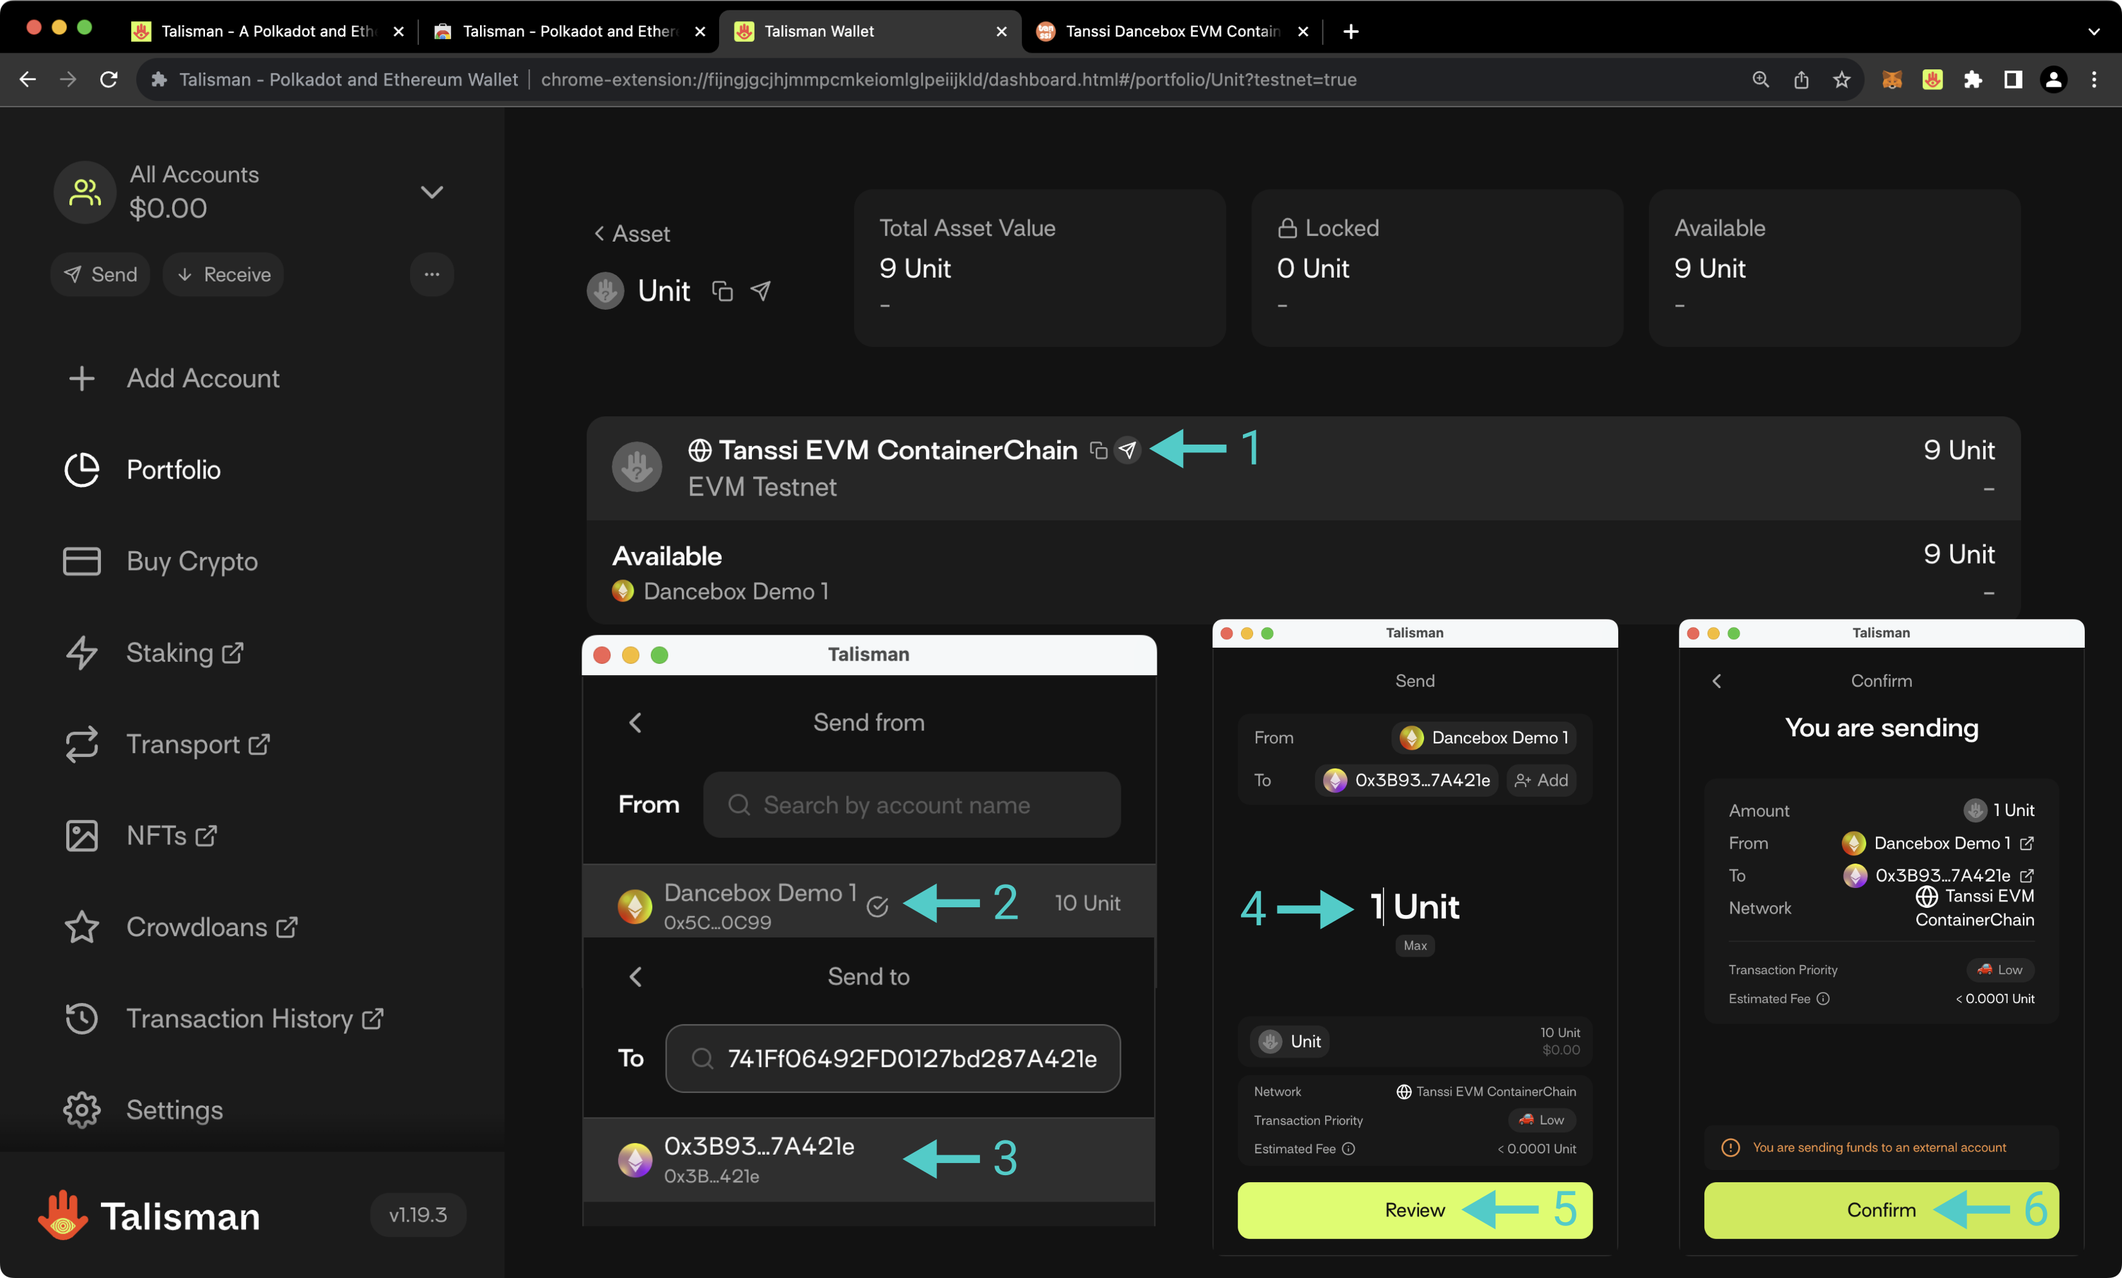
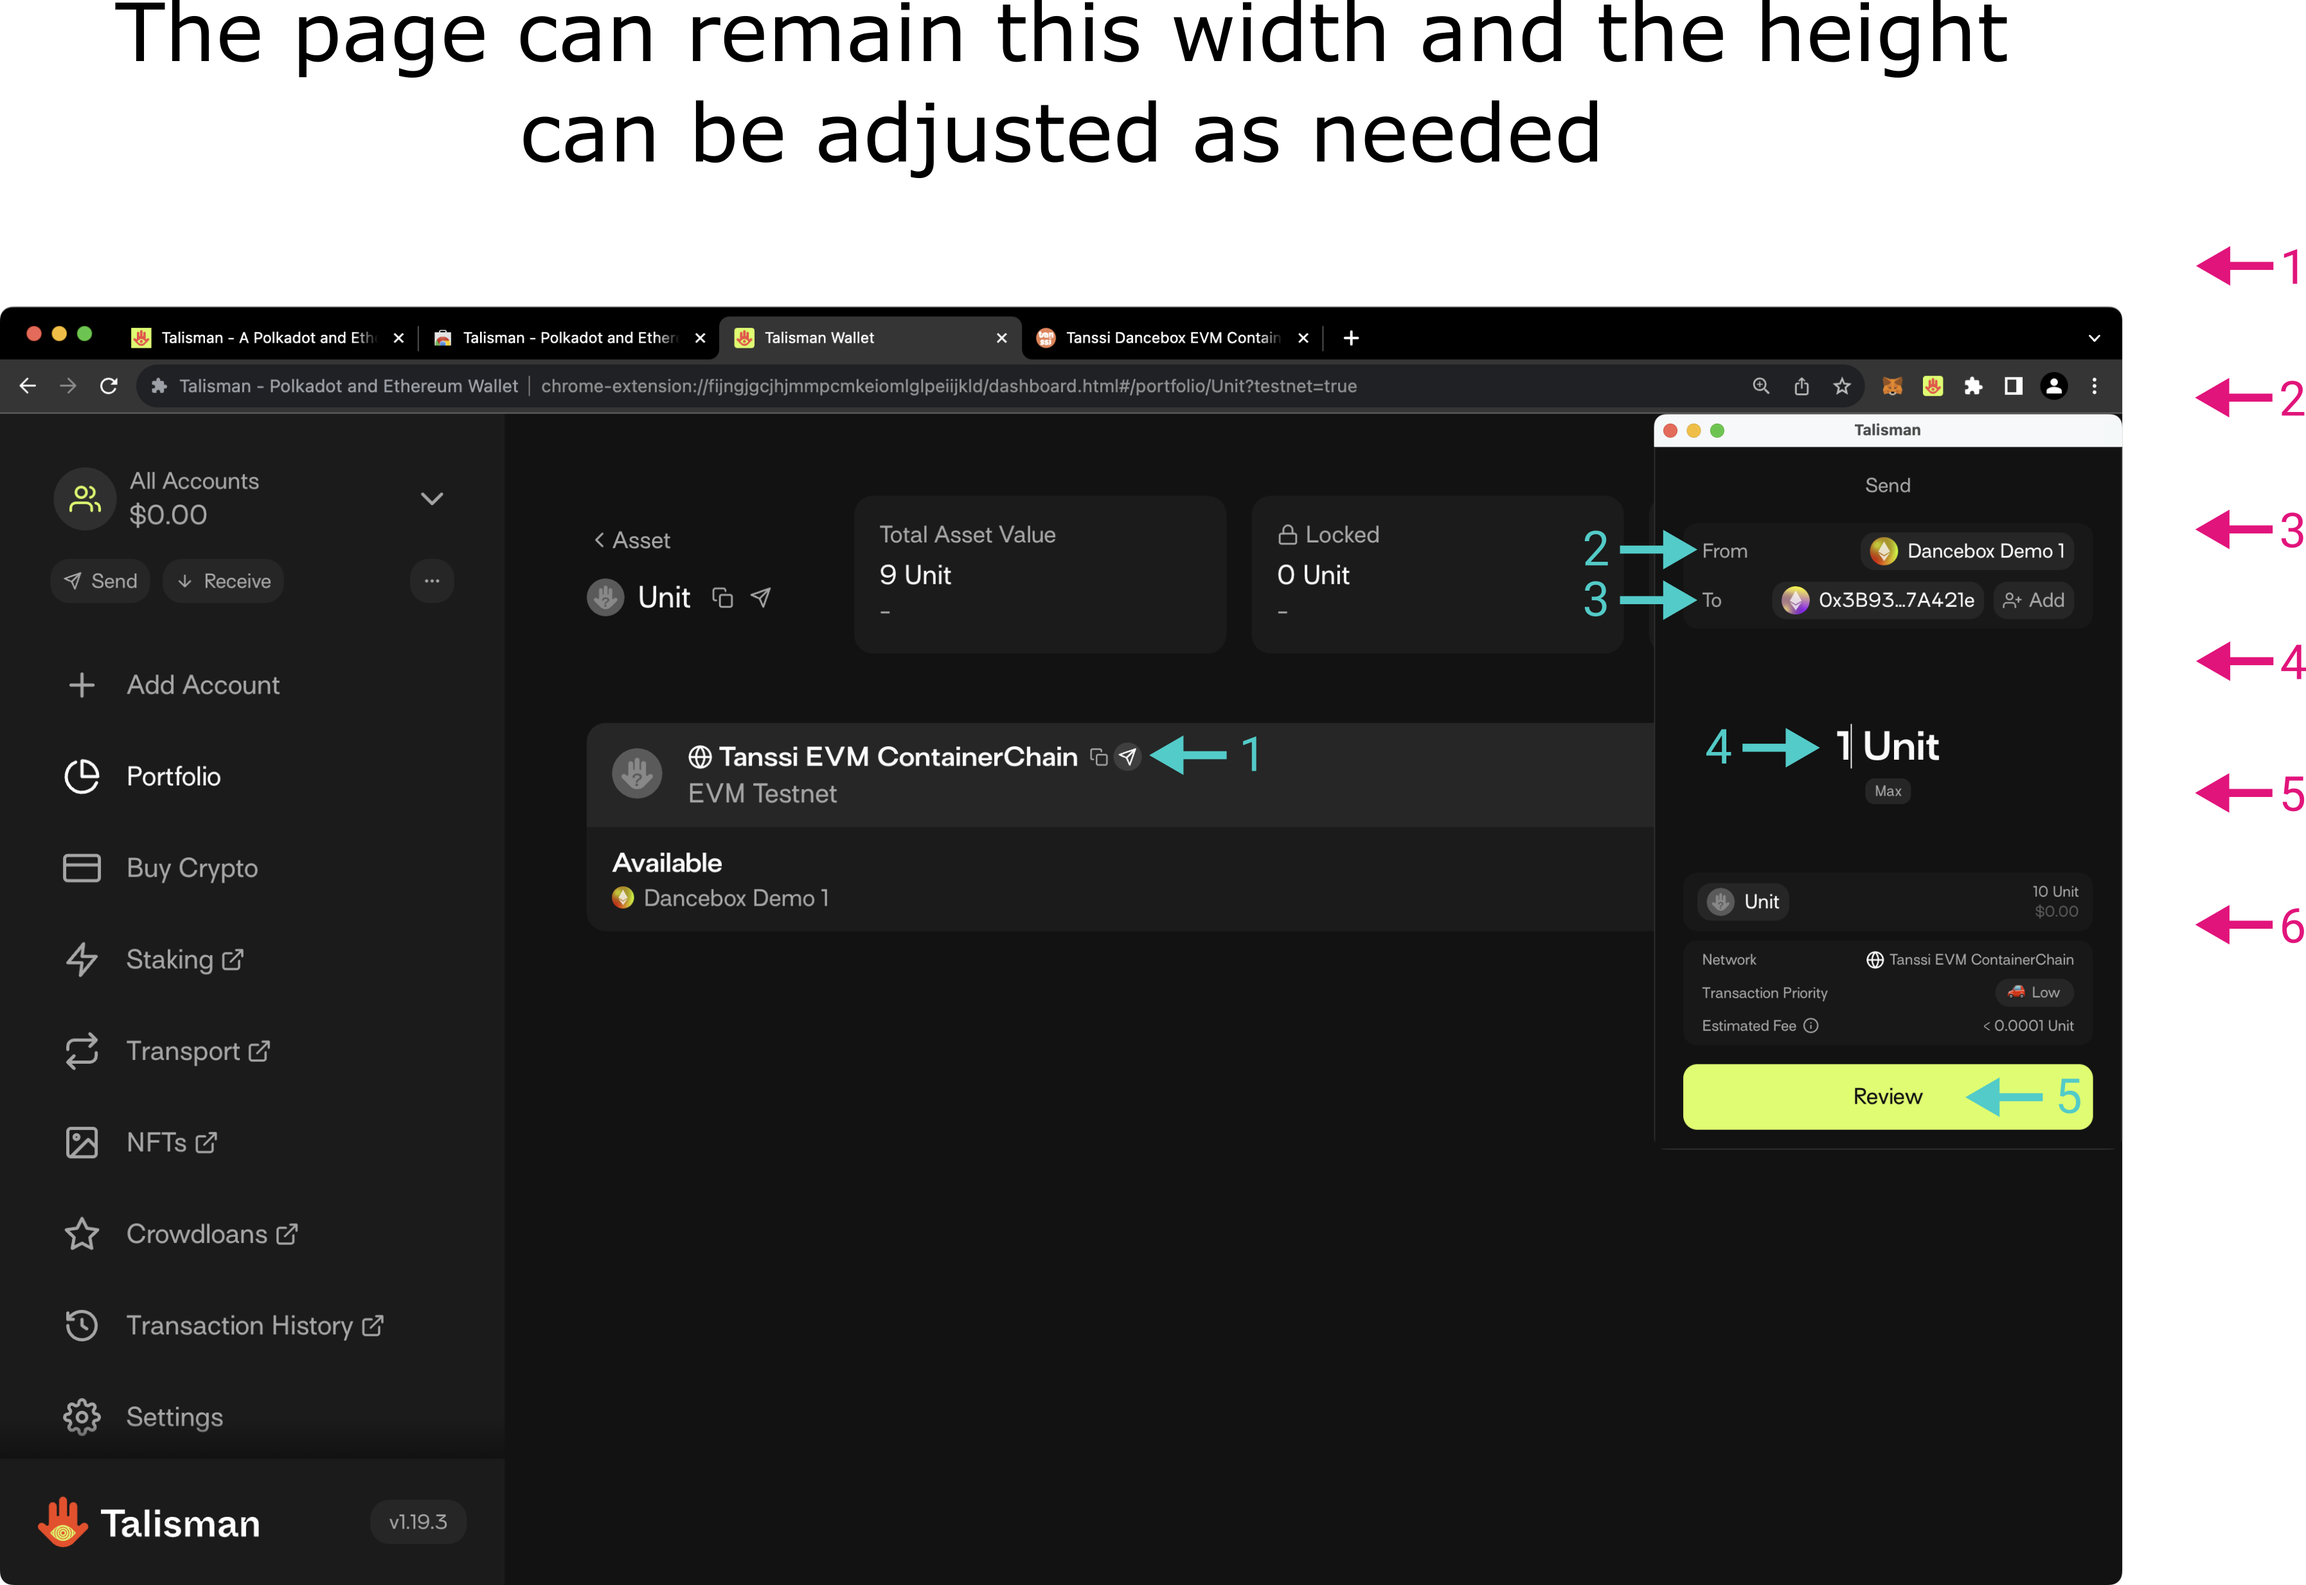
update talisman image 8

diff --git a/builders/interact/ethereum-api/wallets/talisman.md b/builders/interact/ethereum-api/wallets/talisman.md
@@ -67,8 +67,7 @@ To transfer the native token of your ContainerChain, take the following steps:
 2. Click the desired **Send from** account
 3. Enter the destination address
 4. Enter the amount of tokens to send
-5. Press **Review** and look over the transaction details
-6. Press **Confirm** to send the transaction
+5. Look over the transaction details, then press **Review** and subsequently **Confirm**
 
 ![Send funds on your EVM ContainerChain](/images/builders/interact/ethereum-api/wallets/talisman/talisman-8.png)
 
